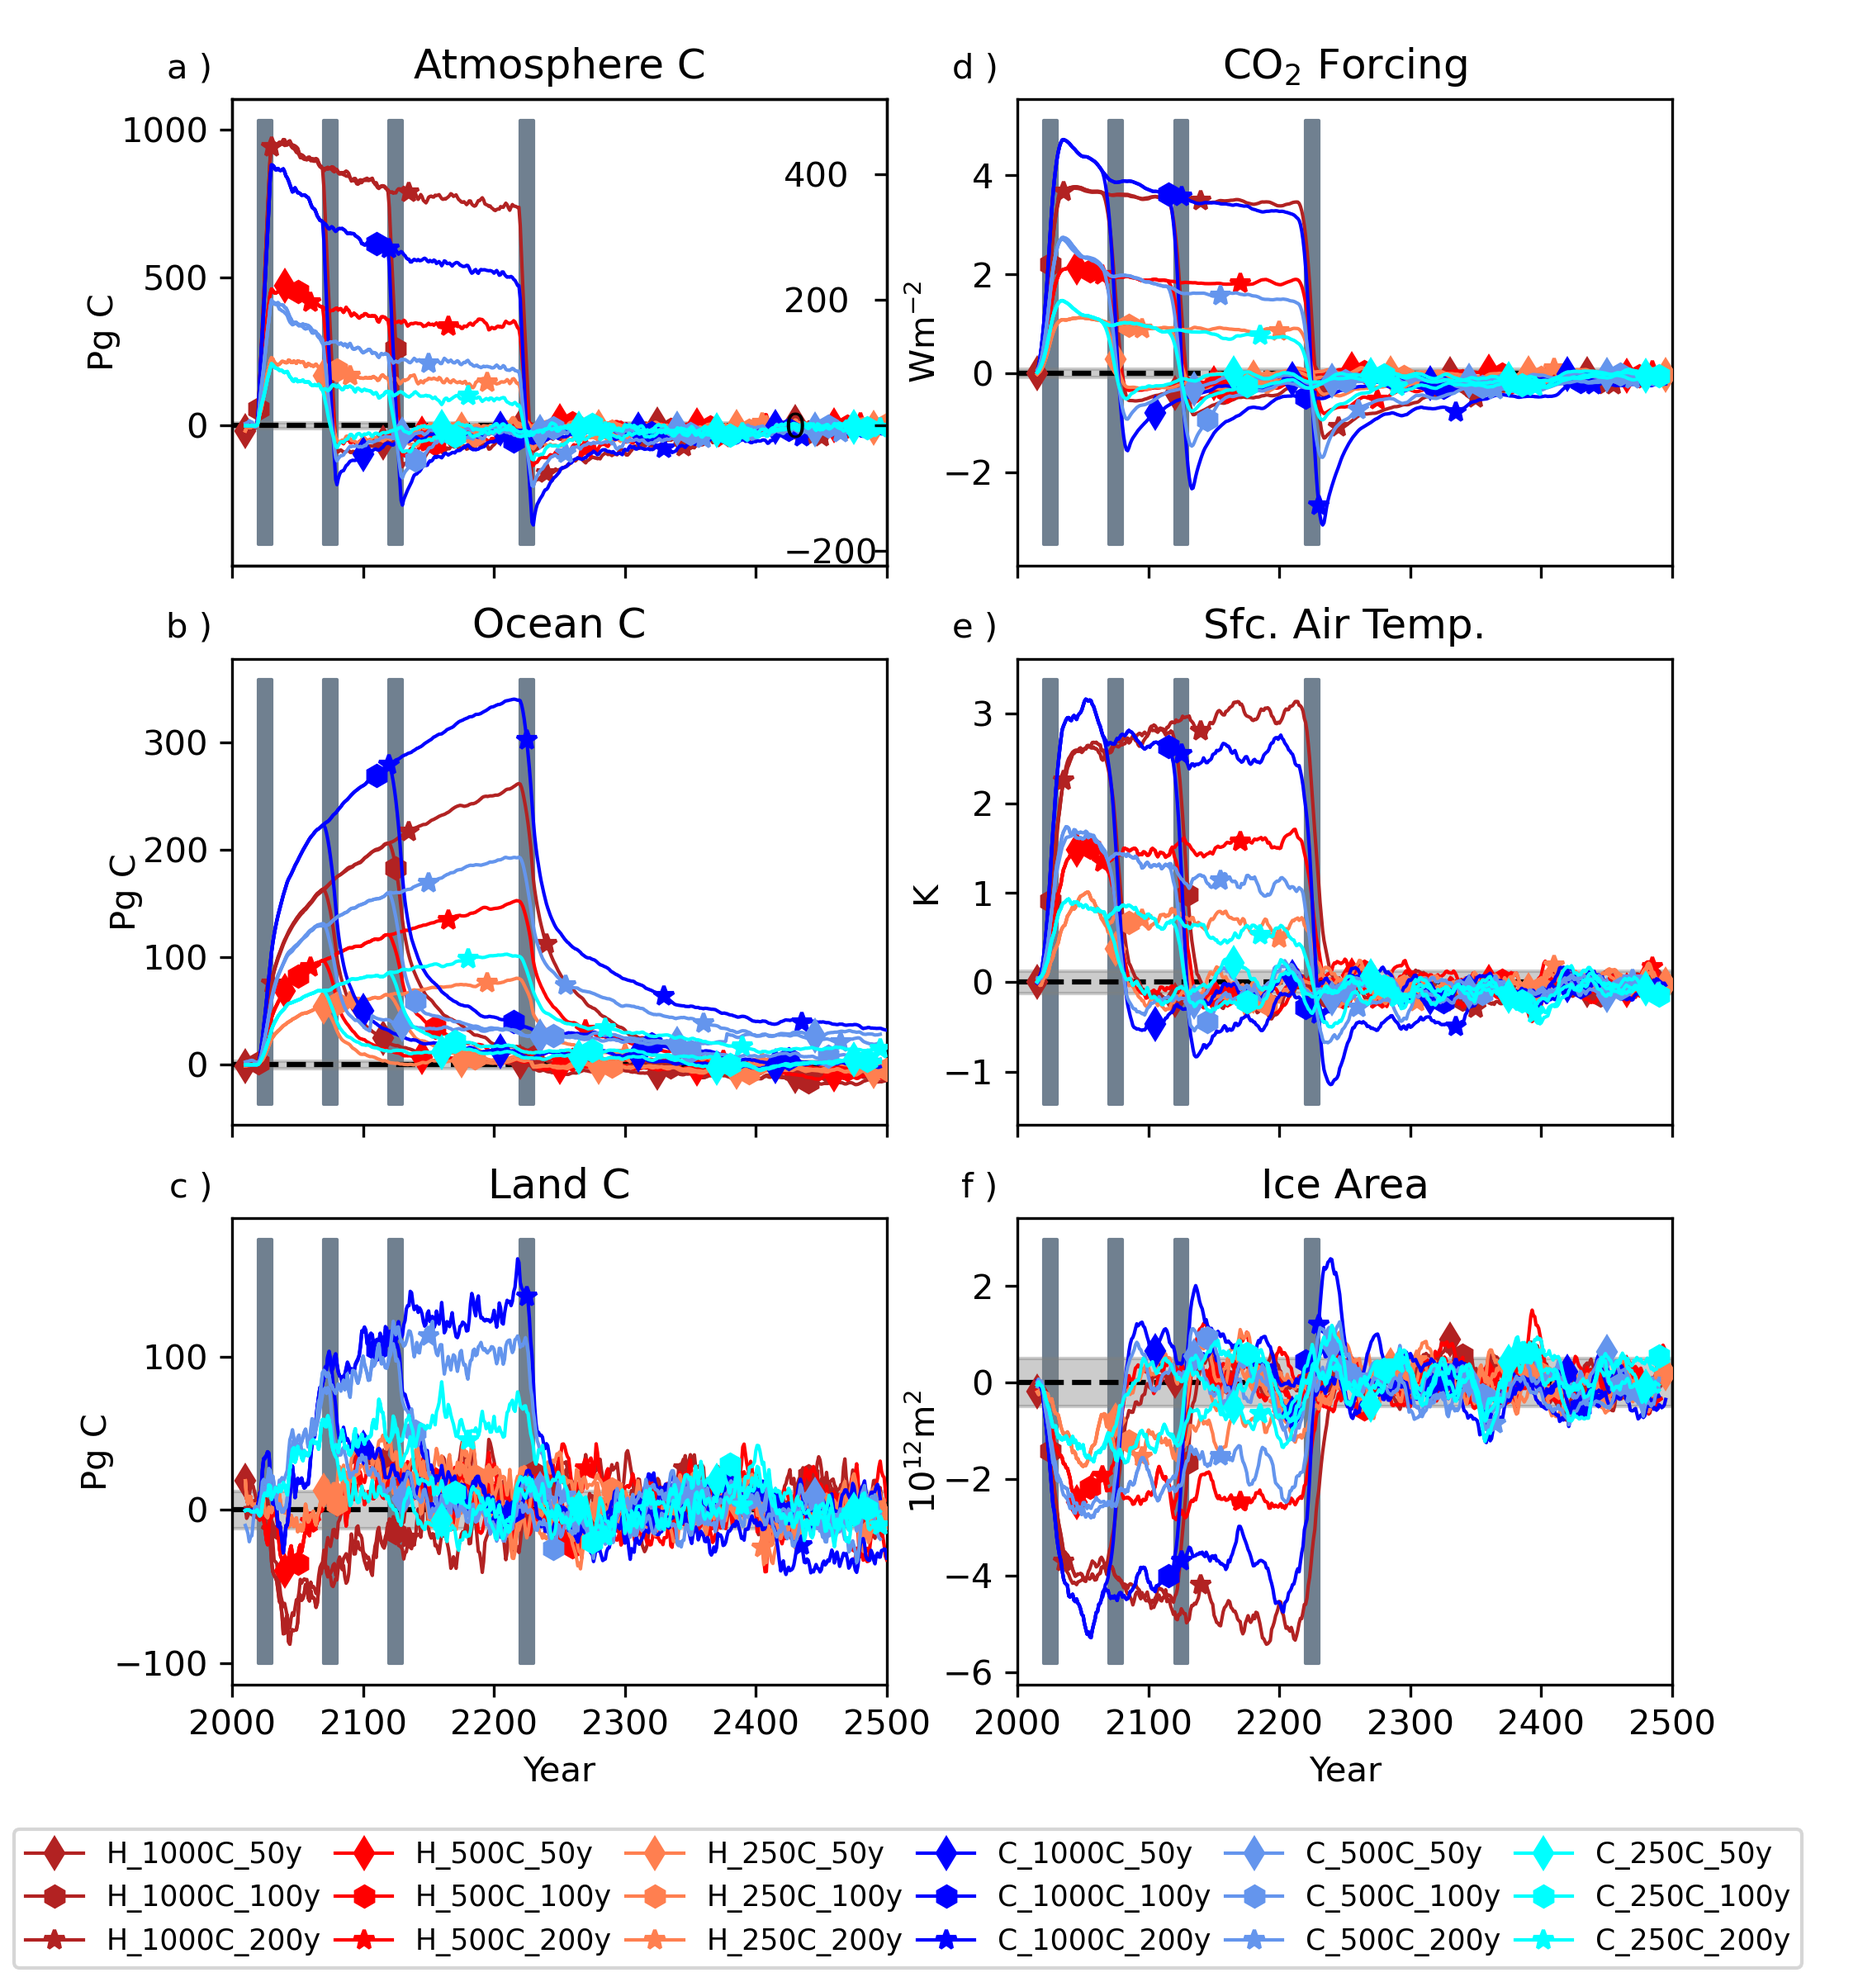
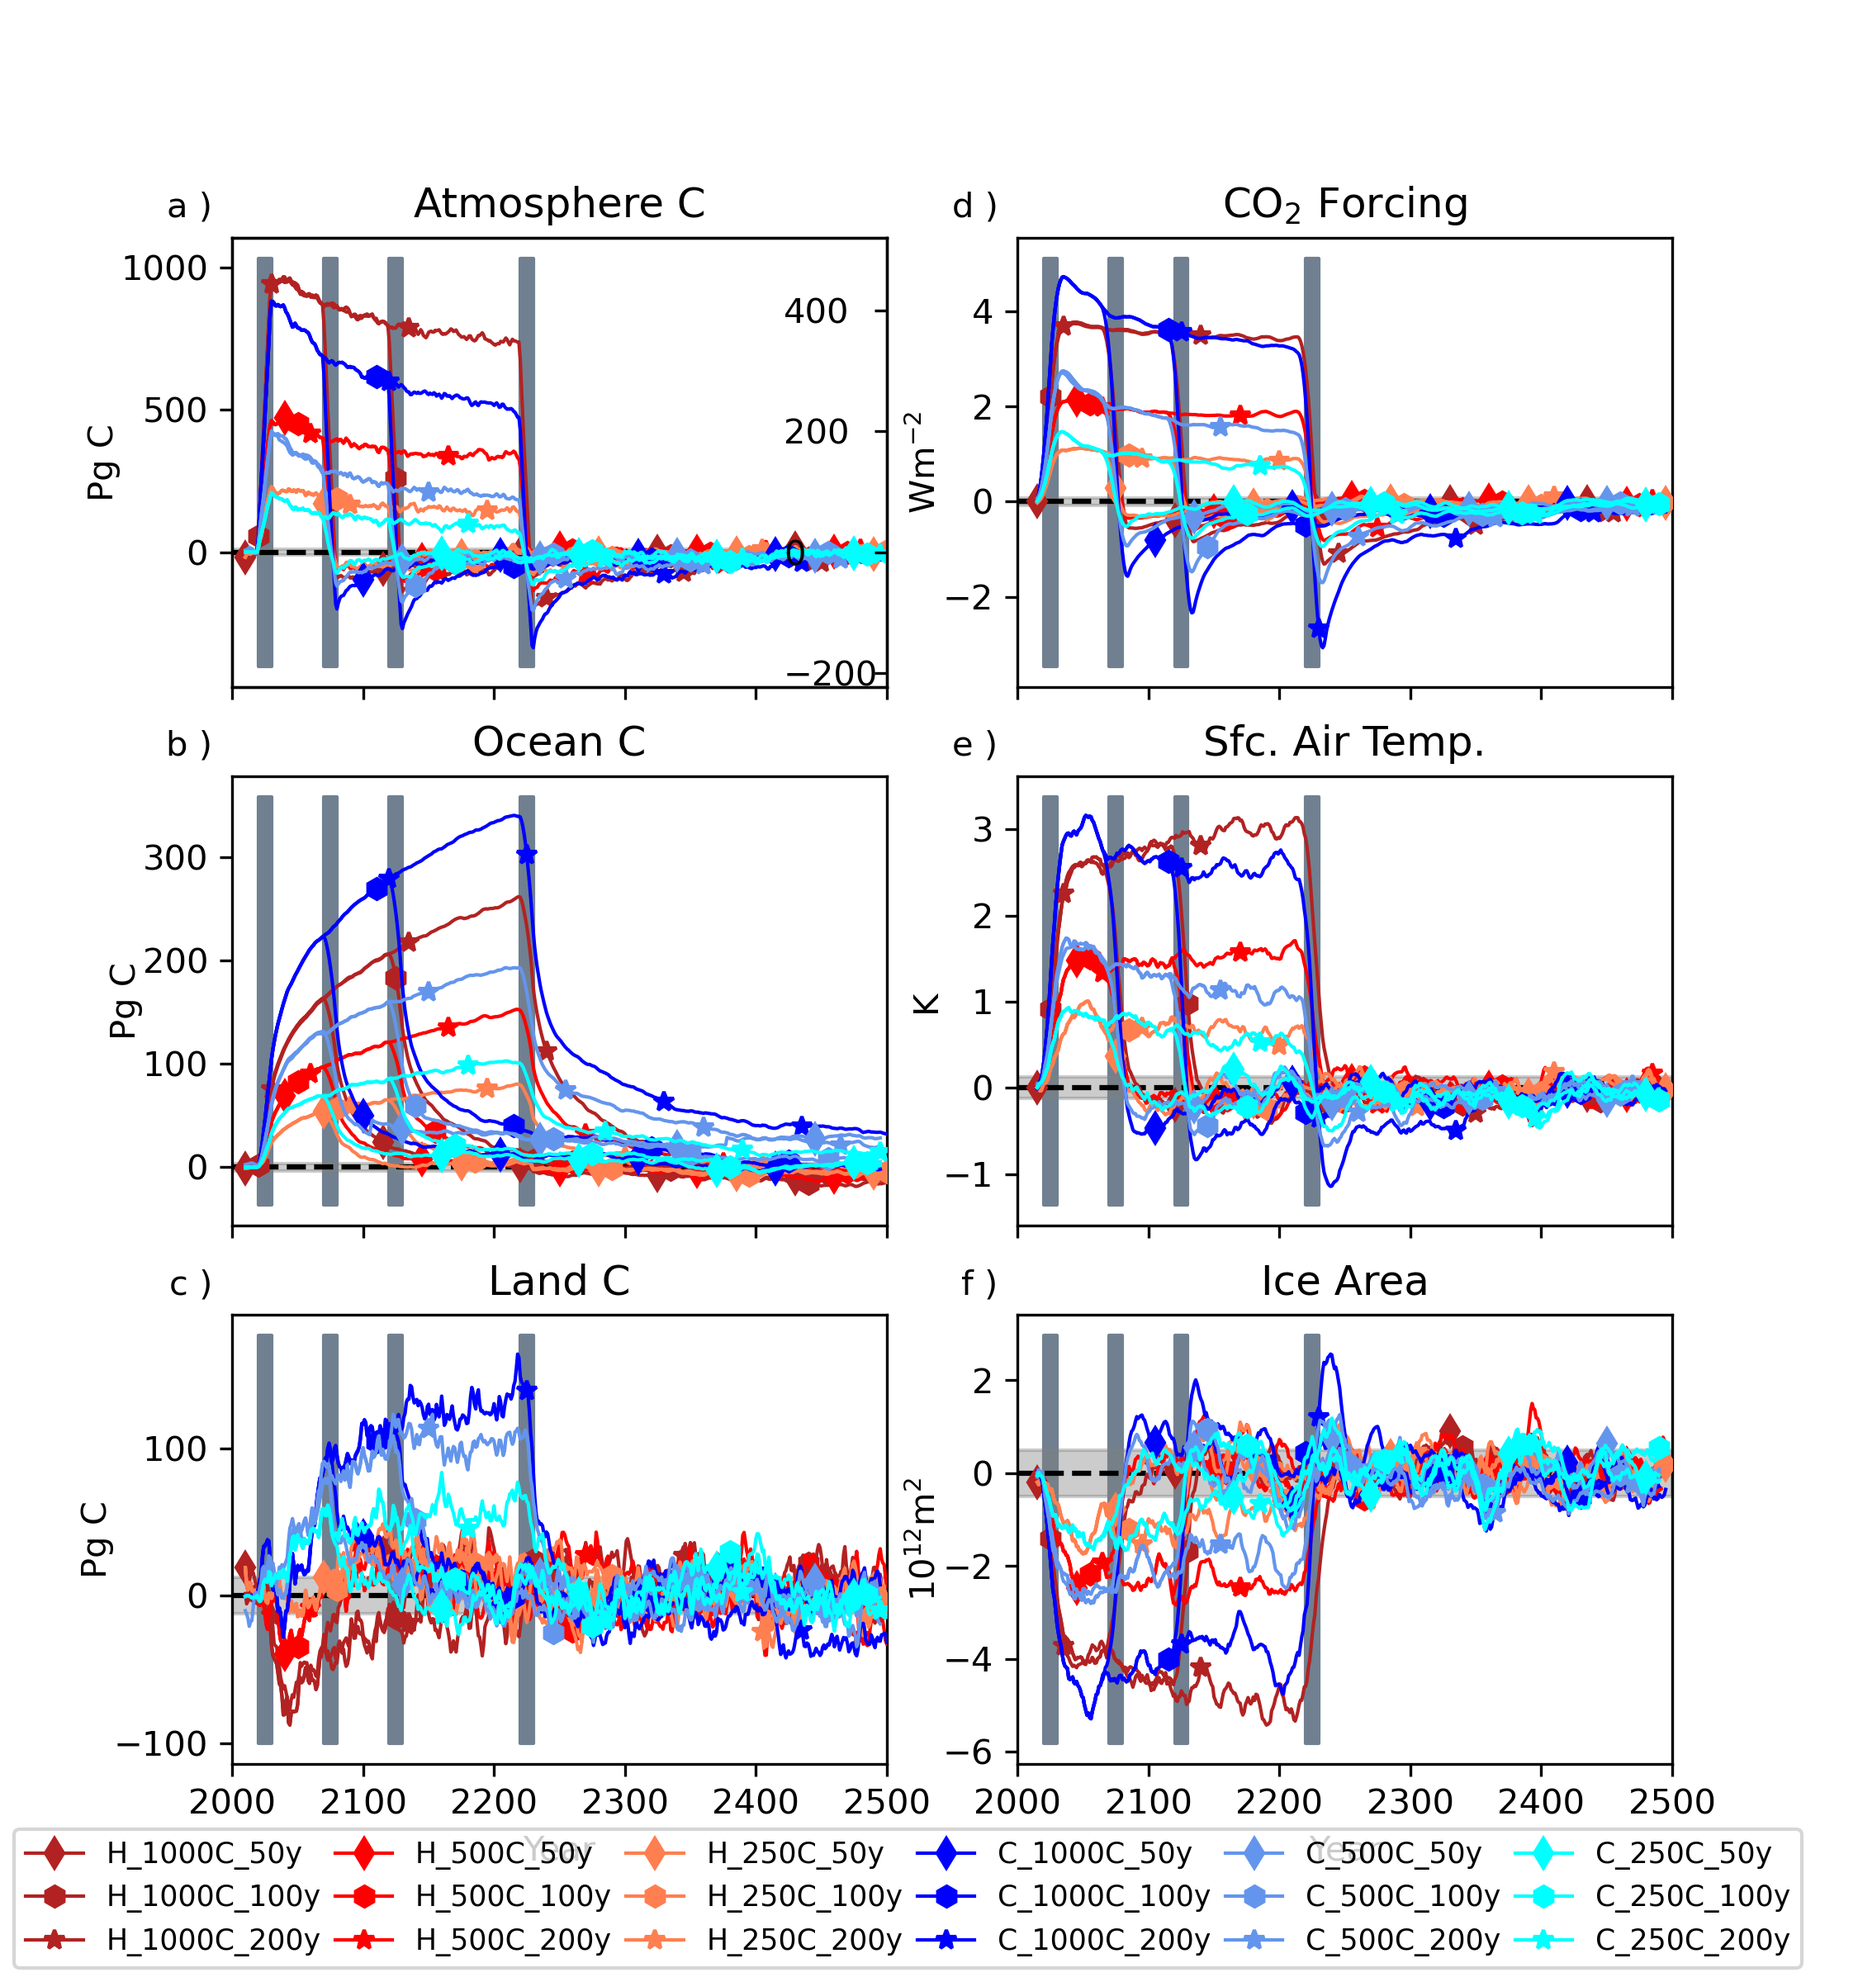
Changes to merlinLib to generate the label automatically and deal with Fixed CO2 in radn code. And code to actually plot the fixed CO2 runs!

diff --git a/merlinLib.py b/merlinLib.py
@@ -38,8 +38,8 @@ return_xarray = False # if True return xarray dataArrays using DataAray.from_iri
 
 # Values below are basic configuration variables. Set values to what needed for your data.
 # these might be better in a separate file.. though then would need to modify their names!
-_merlin_root_dir = pathlib.Path("/exports/csce/datastore/geos/groups/merlin/FAMOUS") # linux path
-_merlin_root_dir = pathlib.Path(r"\\csce.datastore.ed.ac.uk\csce\geos\groups\merlin\top\stett2\AggData") # agg data on datastore
+
+_merlin_root_dir = pathlib.Path(r"\\csce.datastore.ed.ac.uk\csce\geos\groups\merlin\top\stett2\AggData") # agg data on datastore. Note windows path.
 # cache path root
 _merlin_cache_dir = pathlib.Path(r"C:\Users\stett2\OneDrive - University of Edinburgh\data\MERLIN_data") # local windows path (data can be copied here from linux)
 land_frac_path = _merlin_root_dir / 'ancil' / 'qrparm.mask_frac.nc'
@@ -51,7 +51,7 @@ except OSError:
 
 # variables for human editing..
 info = pd.read_csv('lookup.csv', header=0, index_col=0)
-lookup = info.query("FixCO2==False") # for compatability with old code
+lookup = info.query("FixCO2==False") # for compatibility with old code
 lookup_fix = info.query("FixCO2==True")
 #references = {'Historical': 'xnyvh', 'Control': 'xoauj', 'Spinup': 'xnnqm'}  # reference experiments
 references = {'Historical':'xovdz','Historical_bad': 'xnyvh','Historical_fixC':'xovdx','Control':'xovfj',
@@ -180,9 +180,9 @@ def read_forcing(var, exper, use_cache=True,readCube=False,decadal=False):
         read_fn = read_data
 
 
-    cube = read_fn('AtmC', exper,use_cache=use_cache,decadal=decadal)
+    cube = read_fn('AtmCO2', exper,use_cache=use_cache,decadal=decadal)
     # get in the control values (which we are using as a reference)
-    ref_atm_co2  = read_fn('AtmC', references['Control'], use_cache=use_cache).collapsed('time',iris.analysis.MEAN) #mean in time.
+    ref_atm_co2  = 4.4e-4 # PI value
     f = cube/ref_atm_co2
     f = 5.35 * iris.analysis.maths.log(f)  # Myhre formula.
     f.units=cf_units.Unit('W m-2') # forcing is W/m^2
@@ -230,6 +230,8 @@ var_lookup = {
     'AtmC': dict(file='mass_fraction_of_carbon_dioxide_in_air.nc',
                    Constraint=iris.Constraint(model_level_number=11), method=iris.analysis.SUM,
                    scale=CO2_to_C * mAtmCol * 1e-12, units=PgC),
+    'AtmCO2': dict(file='mass_fraction_of_carbon_dioxide_in_air.nc',
+                 Constraint=iris.Constraint(model_level_number=11)),
     'AtmCO2_Profile': dict(file='mass_fraction_of_carbon_dioxide_in_air.nc',
                   method=iris.analysis.MEAN),
     'AtmT_Profile': dict(file='air_temperature_3.nc', method=iris.analysis.MEAN,

diff --git a/plot_fix_co2_sims.py b/plot_fix_co2_sims.py
@@ -5,13 +5,24 @@ Plot timeseries for fixed CO2 simulations
 import merlinLib
 import matplotlib.pyplot as plt
 import iris.plot
-
+ppt=False # set False if want figure for paper
 varsPlot = ['AtmC', 'OcC', 'LandC','Forcing','SAT', 'icef']
 smoothVars = [var for var in varsPlot if var[-1] != 'C' ]
 titles = ['Atmosphere C','Ocean C', 'Land C', 'CO$_2$ Forcing','Sfc. Air Temp.', 'Ice Area']
 xtitles = ['Pg C', 'Pg C','Pg C','Wm$^{-2}$','K', r'$10^{12}$m$^2$']
-fig,axes = plt.subplots(nrows=3,ncols=2,clear=True,figsize=[7.5,8],num='fix_co2_sims',sharex=True,
-                        gridspec_kw=dict(wspace=0.25,top=0.95,bottom=0.15))
+if ppt:
+    figSize=[11,8]
+    nrows=2
+    ncols=3
+    name='fix_co2_sims_ppt'
+else:
+    figSize=[7.5,8]
+    nrows=3
+    ncols=2
+    name='fix_co2_sims'
+
+fig,axes = plt.subplots(nrows=nrows,ncols=ncols,clear=True,figsize=figSize,num=name,sharex=True,
+                        gridspec_kw=dict(wspace=0.25,top=0.95,bottom=0.1))
 for var,title,xtitle,ax in zip(varsPlot,titles,xtitles,axes.T.flatten()):
     for name, experiment in merlinLib.lookup_fix.iterrows():
         ts= merlinLib.delta(var,name,refName=experiment.Reference)

diff --git a/plot_sfc_vars.py b/plot_sfc_vars.py
@@ -61,8 +61,7 @@ for var, ax, ytitle, title in zip(varsPlot, axes.T.flatten(), xtitles, titles):
             if var in smoothVars:
                 t = ts.rolling_window('time', iris.analysis.MEAN, 11)
             # generate name
-            name = merlinLib.gen_name(k)
-            ax.plot(t.coord('year').points, t.data, label=name, markevery=(startIndx,105), **prop,zorder=100)
+            ax.plot(t.coord('year').points, t.data,markevery=(startIndx,105), **prop,zorder=100)
             startIndx += 10
         ax.fill_between(ax.get_xlim(), 2 * sd[var], -2 * sd[var], color='grey', alpha=0.4)
 
